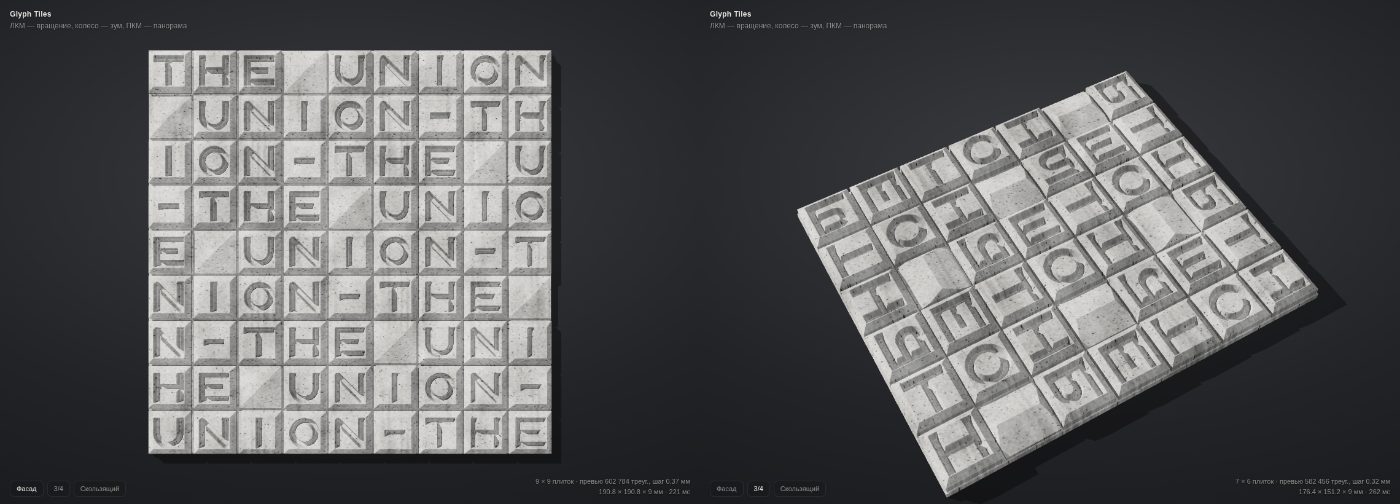
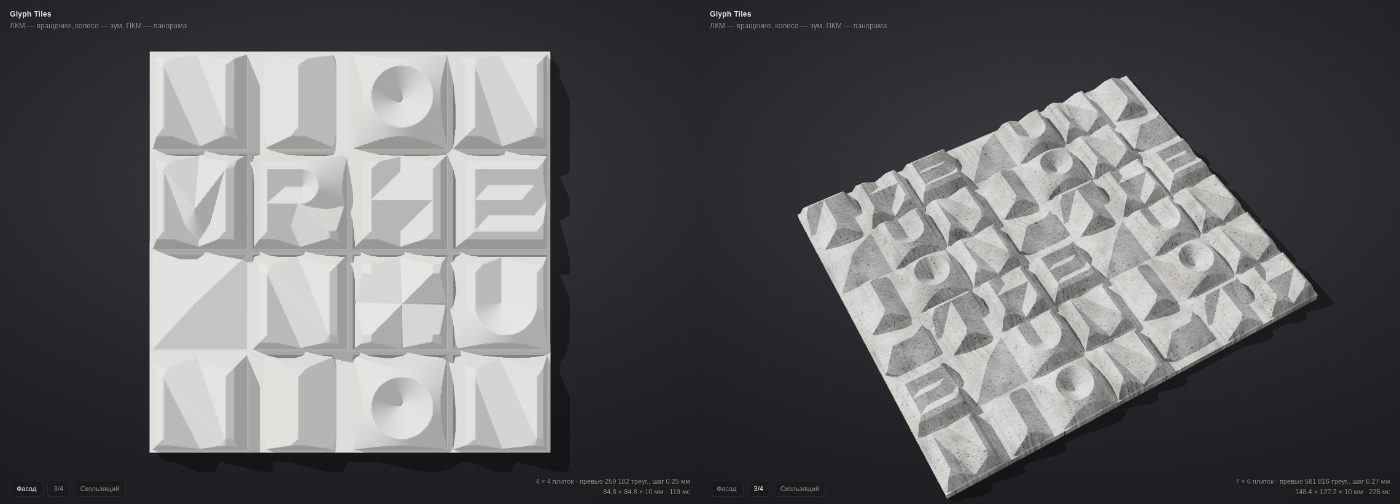
glyphs: letters as creases with slopes down to the base
Following the facade: a letter is not cut in or raised, it is the crease
itself. Every point of the tile falls from the letter's centre line to
the base at a set angle, so N gets triangular facets and valleys between
its three ridges, O a cone inside the ring, E louvres between the arms.
This "fold" build is the default; cut and raised strokes stay as options.

Font trimmed to Latin A-Z, digits and the dash; Cyrillic, punctuation
and the test suite removed as asked.

Claude-Session: https://claude.ai/code/session_01ABKi7uvLa2AT9wfuFbyTr3

diff --git a/glyphs/index.html b/glyphs/index.html
@@ -171,14 +171,14 @@
   <aside id="panel">
     <header class="head">
       <h1>Glyph Tiles</h1>
-      <p>Стена из бетонных плиток с вырезанными буквами. Текст идёт по сетке, каждая буква — своя плитка. Размеры в миллиметрах, экспорт в STL.</p>
+      <p>Стена из бетонных плиток-букв. Буква — излом-гребень на верху плитки, от него плоские скаты идут до основания; читается светотенью граней. Размеры в миллиметрах, экспорт в STL.</p>
     </header>
 
     <section class="group">
       <div class="gtitle">Текст</div>
       <div id="grp-text"></div>
       <div class="chips" id="presets"></div>
-      <p class="hint">Пробел — пустая плитка (форма ниже), <b>^</b> — пирамида, <b>~</b> — воронка. Латиница, кириллица, цифры и простые знаки.</p>
+      <p class="hint">Пробел — пустая плитка (форма ниже), <b>^</b> — пирамида, <b>~</b> — воронка. Латиница A–Z, цифры 0–9 и дефис.</p>
     </section>
 
     <section class="group">
@@ -301,51 +301,7 @@ var GlyphCore = (function () {
     8: 'a .5,.76 .24 0 360 | a .5,.26 .26 0 360',
     9: 'a .5,.7 .3 0 360 | .7598,.55 .4423,0',
 
-    'Б': '1,1 0,1 0,0 .55,0 | 0,.55 .55,.55 | a .55,.275 .275 -90 90',
-    'Г': '1,1 0,1 0,0',
-    'Д': '.12,.18 .25,1 .85,1 .85,.18 | 0,0 0,.18 1,.18 1,0',
-    'Ё': '1,.7 0,.7 0,0 1,0 | 0,.35 .75,.35 | p .3,1 | p .7,1',
-    'Ж': '.5,0 .5,1 | 0,1 .5,.5 1,1 | 0,0 .5,.5 1,0',
-    'И': '0,1 0,0 1,1 1,0',
-    'Й': '0,.72 0,0 1,.72 1,0 | .3,1 .7,1',
-    'Л': '0,0 .3,1 1,1 1,0',
-    'П': '0,0 0,1 1,1 1,0',
-    'У': '0,1 .52,.4 | 1,1 .2,0',
-    'Ф': 'a .5,.55 .38 0 360 | .5,0 .5,1',
-    'Ц': '0,1 0,.2 .8,.2 .8,1 | .8,.2 1,.2 1,0',
-    'Ч': '0,1 0,.55 1,.55 | 1,1 1,0',
-    'Ш': '0,1 0,0 1,0 1,1 | .5,1 .5,0',
-    'Щ': '0,1 0,.2 .8,.2 .8,1 | .4,1 .4,.2 | .8,.2 1,.2 1,0',
-    'Ъ': '0,1 .25,1 .25,0 .7,0 | .25,.55 .7,.55 | a .7,.275 .275 -90 90',
-    'Ы': '0,1 0,0 .45,0 | 0,.55 .45,.55 | a .45,.275 .275 -90 90 | 1,1 1,0',
-    'Ь': '.1,1 .1,0 .6,0 | .1,.55 .6,.55 | a .6,.275 .275 -90 90',
-    'Э': 'a .5,.5 .5 -140 140 | .4,.5 1,.5',
-    'Ю': '0,0 0,1 | 0,.5 .36,.5 | a .68,.5 .32 0 360',
-    'Я': '1,0 1,1 .45,1 | 1,.45 .45,.45 | a .45,.725 .275 90 270 | .5,.45 0,0',
-
     '-': '.2,.5 .8,.5',
-    '_': '0,0 1,0',
-    '.': 'p .5,.05',
-    ',': '.55,.2 .4,0',
-    ':': 'p .5,.2 | p .5,.8',
-    '!': '.5,1 .5,.35 | p .5,0',
-    '?': 'a .5,.72 .28 -60 165 | .64,.4775 .5,.38 | p .5,0',
-    "'": '.5,1 .5,.7',
-    '"': '.35,1 .35,.7 | .65,1 .65,.7',
-    '+': '.5,.15 .5,.85 | .15,.5 .85,.5',
-    '=': '.15,.35 .85,.35 | .15,.65 .85,.65',
-    '/': '.15,0 .85,1',
-    '*': '.5,.1 .5,.9 | .15,.3 .85,.7 | .15,.7 .85,.3',
-    '<': '.8,.9 .2,.5 .8,.1',
-    '>': '.2,.9 .8,.5 .2,.1',
-    '(': 'a .95,.5 .6 124 236',
-    ')': 'a .05,.5 .6 -56 56',
-    '#': '.35,0 .35,1 | .65,0 .65,1 | 0,.35 1,.35 | 0,.65 1,.65',
-  };
-  // Cyrillic letters that share a Latin (or digit) shape.
-  const ALIAS = {
-    'А': 'A', 'В': 'B', 'Е': 'E', 'З': '3', 'К': 'K', 'М': 'M', 'Н': 'H', 'О': 'O',
-    'Р': 'P', 'С': 'C', 'Т': 'T', 'Х': 'X',
   };
   // Characters that are not letters but whole-tile shapes.
   const SHAPE_CHARS = { ' ': null, '^': 'pyramid', '~': 'pit' };
@@ -418,7 +374,6 @@ var GlyphCore = (function () {
     for (const q of prims) {
       if (q.k === 's') { grow(q.ax, q.ay, 0); grow(q.bx, q.by, 0); }
       else if (q.k === 'p') grow(q.x, q.y, 0);
-      else if (q.full) grow(q.cx, q.cy, q.r);
       else for (let k = 0; k <= 64; k++) {
         const a = q.a0 + (q.span * k) / 64;
         grow(q.cx + q.r * Math.cos(a), q.cy + q.r * Math.sin(a), 0);
@@ -434,12 +389,12 @@ var GlyphCore = (function () {
   function glyphFor(ch) {
     const c = ch.toUpperCase();
     if (c in SHAPE_CHARS) return { shape: SHAPE_CHARS[c] };
-    const g = GLYPHS[c] || GLYPHS[ALIAS[c]];
+    const g = GLYPHS[c];
     return g ? { glyph: g } : { shape: null };
   }
   const supported = (ch) => {
     const c = ch.toUpperCase();
-    return c in SHAPE_CHARS || !!GLYPHS[c] || !!GLYPHS[ALIAS[c]];
+    return c in SHAPE_CHARS || !!GLYPHS[c];
   };
 
   // Distance from (x,y) to the glyph's cut centre line, unit-box units.
@@ -490,19 +445,21 @@ var GlyphCore = (function () {
     { id: 'gap', label: 'Шов', type: 'range', min: 0, max: 10, step: 0.1, value: 1.2, unit: 'мм' },
     { id: 'border', label: 'Поле по краю', type: 'range', min: 0, max: 40, step: 0.5, value: 0, unit: 'мм' },
     { id: 'base', label: 'Основание', type: 'range', min: 0.6, max: 30, step: 0.1, value: 3, unit: 'мм' },
-    { id: 'H', label: 'Высота плитки', type: 'range', min: 1, max: 60, step: 0.1, value: 6, unit: 'мм' },
-    { id: 'bevelW', label: 'Фаска: ширина', type: 'range', min: 0, max: 30, step: 0.1, value: 2.6, unit: 'мм' },
-    { id: 'bevelDrop', label: 'Фаска: глубина', type: 'range', min: 0, max: 60, step: 0.1, value: 2.4, unit: 'мм' },
+    { id: 'H', label: 'Высота плитки', type: 'range', min: 1, max: 60, step: 0.1, value: 7, unit: 'мм' },
+    { id: 'bevelW', label: 'Фаска: ширина', type: 'range', min: 0, max: 30, step: 0.1, value: 2.5, unit: 'мм' },
+    { id: 'bevelDrop', label: 'Фаска: глубина', type: 'range', min: 0, max: 60, step: 0.1, value: 7, unit: 'мм' },
     { id: 'jitter', label: 'Разброс выноса', type: 'range', min: 0, max: 20, step: 0.1, value: 0, unit: 'мм' },
     { id: 'seed', label: 'Сид', type: 'seed', min: 1, max: 99999, step: 1, value: 1971 },
   ];
   const GLYPH = [
-    { id: 'mode', label: 'Буква', type: 'select', value: 'carve', options: [['carve', 'Вырезана (углублена)'], ['emboss', 'Выпуклая']] },
-    { id: 'weight', label: 'Толщина штриха', type: 'range', min: 0.03, max: 0.35, step: 0.005, value: 0.16, unit: '×' },
-    { id: 'margin', label: 'Отступ от фаски', type: 'range', min: 0, max: 0.35, step: 0.005, value: 0.02, unit: '×' },
-    { id: 'depth', label: 'Глубина резьбы', type: 'range', min: 0.2, max: 40, step: 0.1, value: 3.5, unit: 'мм' },
-    { id: 'profile', label: 'Профиль реза', type: 'select', value: 'chisel', options: [['chisel', 'Долото (V / трапеция)'], ['round', 'Полукруглый']] },
-    { id: 'wall', label: 'Скос стенок', type: 'range', min: 0.05, max: 1, step: 0.01, value: 0.5, showIf: (v) => v.profile === 'chisel' },
+    { id: 'mode', label: 'Построение буквы', type: 'select', value: 'fold', options: [
+      ['fold', 'Излом: буква — гребень, скаты до основания'], ['carve', 'Штрих вырезан'], ['emboss', 'Штрих выпуклый']] },
+    { id: 'weight', showIf: (v) => v.mode !== 'fold', label: 'Толщина штриха', type: 'range', min: 0.03, max: 0.35, step: 0.005, value: 0.12, unit: '×' },
+    { id: 'margin', label: 'Отступ от фаски', type: 'range', min: 0, max: 0.35, step: 0.005, value: 0.08, unit: '×' },
+    { id: 'depth', label: 'Глубина реза', type: 'range', min: 0.2, max: 40, step: 0.1, value: 3.5, unit: 'мм', showIf: (v) => v.mode !== 'fold' },
+    { id: 'angle', label: 'Уклон скатов', type: 'range', min: 10, max: 80, step: 1, value: 42, unit: '°', showIf: (v) => v.mode === 'fold' },
+    { id: 'profile', label: 'Профиль', type: 'select', value: 'chisel', options: [['chisel', 'Плоские грани'], ['round', 'Вогнутый (чаша)']] },
+    { id: 'wall', label: 'Скос стенок', type: 'range', min: 0.05, max: 1, step: 0.01, value: 0.5, showIf: (v) => v.profile === 'chisel' && v.mode !== 'fold' },
     { id: 'ends', label: 'Концы штрихов', type: 'select', value: 'square', options: [['square', 'Прямые (гранёные)'], ['round', 'Круглые']] },
     { id: 'rot', label: 'Поворот плиток', type: 'select', value: 'none', options: [
       ['none', 'Нет'], ['flip', 'Случайно 0° / 180°'], ['rot', 'Случайно на 90°'], ['mirror', 'Случайное зеркало'], ['both', 'Поворот + зеркало']] },
@@ -510,7 +467,7 @@ var GlyphCore = (function () {
   const BLANK = [
     { id: 'blank', label: 'Форма пустой плитки', type: 'select', value: 'pyramid', options: [
       ['flat', 'Плоская'], ['pyramid', 'Пирамида'], ['pit', 'Воронка'], ['roof', 'Двускатная'], ['dome', 'Купол']] },
-    { id: 'pyr', label: 'Высота формы', type: 'range', min: 0.2, max: 60, step: 0.1, value: 4, unit: 'мм', showIf: (v) => v.blank !== 'flat' },
+    { id: 'pyr', label: 'Высота формы', type: 'range', min: 0.2, max: 60, step: 0.1, value: 7, unit: 'мм', showIf: (v) => v.blank !== 'flat' },
   ];
   const SCHEMA = { text: TEXT, grid: GRID, glyph: GLYPH, blank: BLANK };
   const ALL = [].concat(TEXT, GRID, GLYPH, BLANK);
@@ -527,7 +484,8 @@ var GlyphCore = (function () {
     const T = p.tile, gap = p.gap, pitch = T + gap, cols = p.cols | 0, rows = p.rows | 0;
     const bw = Math.min(p.bevelW, T * 0.45), drop = Math.min(p.bevelDrop, p.H);
     const face = T - 2 * bw;
-    const sw = Math.min(p.weight * T, face * 0.9);
+    const fold = p.mode === 'fold';
+    const sw = fold ? 0 : Math.min(p.weight * T, face * 0.9);
     const box = face * (1 - 2 * p.margin);
     const S = Math.max(box - sw, sw * 0.5, 0.05);           // glyph unit box -> mm
     const emboss = p.mode === 'emboss';
@@ -536,6 +494,7 @@ var GlyphCore = (function () {
     return {
       T, gap, pitch, cols, rows, bw, drop, sw, w: sw / 2, S, emboss,
       depth: p.depth, profile: p.profile, wall: p.wall, square: p.ends === 'square',
+      fold, slope: Math.tan(clamp(p.angle, 5, 89) * D2R),
       blank: p.blank, pyr: p.pyr, base: p.base, H: p.H, border: p.border, W, D, top0,
       top: top0 + (emboss ? p.depth : 0),
     };
@@ -614,6 +573,18 @@ var GlyphCore = (function () {
       return Math.max(P.base, z);
     }
     const g = t.glyph, S = P.S, gx = ux / S + 0.5, gy = uy / S + 0.5, wu = P.w / S, b = g.box;
+    if (P.fold) {
+      // The letter is a crease at the top of the tile; from every point of it a plane
+      // falls to the base. Where the falls from two strokes meet, a valley forms;
+      // where they meet the frame chamfer, the tile edge. Nothing is left flat.
+      const bx = Math.max(b[0] - gx, 0, gx - b[2]), by = Math.max(b[1] - gy, 0, gy - b[3]);
+      const run = P.H / P.slope;                               // horizontal length of a full fall
+      let d = Math.hypot(bx, by) * S;                          // lower bound of the distance to the letter
+      if (d < run) d = glyphDist(g, gx, gy, P.square) * S;
+      const k = Math.min(1, d / run);
+      const f = P.profile === 'round' ? Math.sqrt(1 - (1 - k) * (1 - k)) : k;
+      return Math.max(P.base, Math.min(z, top - P.H * f));
+    }
     if (gx < b[0] - wu || gx > b[2] + wu || gy < b[1] - wu || gy > b[3] + wu) return Math.max(P.base, z);
     const c = cutDepth(P, glyphDist(g, gx, gy, P.square) * S);
     if (c <= 0) return Math.max(P.base, z);
@@ -859,7 +830,7 @@ var GlyphCore = (function () {
   const SHAPE_NAMES = { flat: 'flat', pyramid: 'pyramid', pit: 'pit', roof: 'roof', dome: 'dome' };
   function tileFileName(t) {
     if (!t.glyph) return `blank-${SHAPE_NAMES[t.shape] || 'flat'}`;
-    const safe = /^[0-9A-ZА-ЯЁ]$/.test(t.ch) ? t.ch : 'u' + t.ch.codePointAt(0).toString(16).toUpperCase().padStart(4, '0');
+    const safe = /^[0-9A-Z]$/.test(t.ch) ? t.ch : 'u' + t.ch.codePointAt(0).toString(16).toUpperCase().padStart(4, '0');
     return `tile-${safe}${t.mir ? '-mirror' : ''}`;
   }
   // Assembly map: rows top to bottom, one cell per tile.
@@ -881,7 +852,7 @@ var GlyphCore = (function () {
   }
 
   return {
-    SCHEMA, ALL, FONT, ALIAS, GLYPHS, defaults, resolve, layout, glyphFor, supported, compileGlyph, glyphDist,
+    SCHEMA, ALL, FONT, GLYPHS, defaults, resolve, layout, glyphFor, supported, compileGlyph, glyphDist,
     tileZ, heightAt, tileAt, axis, panelAxes, sample, samplePanel, sampleTile, heightfieldMesh, meshTris,
     toSTL, crc32, zip, heightmapPNG, uniqueTiles, tileFileName, layoutText, hash3, vnoise, fbm,
   };
@@ -898,16 +869,14 @@ var GlyphCore = (function () {
 
   const PRESETS = [
     ['THE UNION', { text: 'THE UNION-', flow: 'shift', shift: 3, blank: 'pyramid' }],
-    ['БЕТОН', { text: 'БЕТОН ', flow: 'shift', shift: 2, blank: 'pyramid' }],
-    ['МИР ТРУД МАЙ', { text: 'МИР^ТРУД~МАЙ ', flow: 'rows', blank: 'dome' }],
+    ['CONCRETE 1971', { text: 'CONCRETE^1971~', flow: 'rows', blank: 'pyramid' }],
     ['A–Z', { text: 'ABCDEFGHIJKLMNOPQRSTUVWXYZ', flow: 'rows', blank: 'flat' }],
-    ['А–Я', { text: 'АБВГДЕЁЖЗИЙКЛМНОПРСТУФХЦЧШЩЪЫЬЭЮЯ', flow: 'rows', blank: 'flat' }],
     ['0–9', { text: '0123456789', flow: 'snake', blank: 'flat' }],
   ];
 
   const VIEW = [
     { id: 'az', label: 'Азимут света', type: 'range', min: 0, max: 360, step: 1, value: 135, unit: '°' },
-    { id: 'el', label: 'Высота света', type: 'range', min: 4, max: 90, step: 1, value: 38, unit: '°' },
+    { id: 'el', label: 'Высота света', type: 'range', min: 4, max: 90, step: 1, value: 40, unit: '°' },
     { id: 'material', label: 'Материал', type: 'select', value: 'concrete', options: [
       ['concrete', 'Бетон'], ['dark', 'Тёмный бетон'], ['white', 'Белый бетон'], ['print', 'Пластик (превью печати)']] },
     { id: 'texture', label: 'Фактура бетона', type: 'toggle', value: true, showIf: (v) => v.material !== 'print' },
@@ -1110,7 +1079,7 @@ var GlyphCore = (function () {
     tex.wrapS = tex.wrapT = THREE.RepeatWrapping;
     tex.encoding = THREE.sRGBEncoding;
     tex.anisotropy = renderer.capabilities.getMaxAnisotropy();
-    tex.repeat.set(1 / 70, 1 / 70);                          // UVs are in mm: one texture tile = 70 mm
+    tex.repeat.set(1 / 40, 1 / 40);                          // UVs are in mm: one texture tile = 40 mm
     return tex;
   }
   const concrete = makeConcreteTexture();

diff --git a/glyphs/README.md b/glyphs/README.md
@@ -1,7 +1,9 @@
 # Glyph Tiles
 
-Параметрический генератор стены из бетонных плиток с вырезанными буквами: текст идёт
-по сетке, каждая буква — отдельная плитка с фаской, штрихи вырезаны «долотом».
+Параметрический генератор стены из бетонных плиток-букв: текст идёт по сетке, каждая
+буква — отдельная плитка. Буква не вырезана и не выдавлена: она сама — **излом**, гребень
+на верху плитки, от которого плоские скаты идут до основания. Где скаты от двух штрихов
+встречаются, образуется впадина; буква читается светотенью граней.
 Один HTML-файл, всё считается в браузере. Размеры в миллиметрах, экспорт в **STL**.
 
 ![Фасад и вид 3/4](docs/preview.jpg)
@@ -21,11 +23,10 @@
 | --- | --- |
 | **Текст** | Строка и порядок раскладки: строками, змейкой, со сдвигом каждого ряда (как на фасаде «THE UNION»), столбцами, по диагоналям, случайно. Кнопки-пресеты. |
 | **Сетка и плитка** | Колонки и ряды, размер плитки, шов, поле по краю, толщина основания, высота плитки, ширина и глубина фаски, разброс выноса плиток, сид. |
-| **Буквы** | Вырезаны или выпуклые; толщина штриха и отступ (доли плитки); глубина; профиль реза — «долото» (V или трапеция, её задаёт скос стенок) или полукруглый; концы штрихов прямые или круглые; случайный поворот и зеркало плиток. |
+| **Буквы** | Построение: **излом** (по умолчанию — буква-гребень, скаты до основания, крутизна задаётся уклоном), или обычный вырезанный / выпуклый штрих (толщина, глубина, скос стенок). Отступ буквы от фаски; профиль — плоские грани или вогнутый (чаша); концы штрихов прямые (гранёные) или круглые; случайный поворот и зеркало плиток. |
 | **Пустые плитки** | Пробел и неизвестные символы: плоская, пирамида, воронка, двускатная или купол. В тексте `^` — всегда пирамида, `~` — всегда воронка. |
 
-Шрифт — собственный «скелетный»: латиница A–Z, кириллица А–Я и Ё, цифры и знаки
-`- _ . , : ! ? ' " + = / * < > ( ) #`. Регистр не важен. Символы, которых нет в шрифте,
+Шрифт — собственный «скелетный»: латиница A–Z, цифры 0–9 и дефис. Регистр не важен. Символы, которых нет в шрифте,
 становятся пустыми плитками, а их список показывается в левом верхнем углу.
 
 ## Экспорт
@@ -41,32 +42,18 @@
 
 ## Как устроено
 
-Каждая буква описана средней линией реза в единичном квадрате: ломаные, дуги окружностей
-и точки. Для точки поверхности считается расстояние до этой линии, а по нему — глубина реза:
-«долото» даёт V-канавку или трапецию с плоским дном, полукруглый профиль — желобок.
-У свободных концов штрихов и у прямых углов расстояние меряется «квадратом», а не кругом,
-поэтому концы получаются гранёными, а углы — со строгим усом. Концы, которые упираются
-в другой штрих, остаются круглыми и прячутся внутри него.
+Каждая буква описана своей средней линией в единичном квадрате: ломаные, дуги окружностей
+и точки. Для точки плитки считается расстояние до этой линии, и высота падает от верха
+плитки пропорционально ему (угол «Уклон скатов») до основания. Поэтому линия буквы —
+острый гребень, у N между тремя гребнями образуются треугольные грани и впадины, у O
+внутри кольца получается воронка, у E между перекладинами — «жалюзи». Фаска по краю
+плитки срезает скаты и даёт рамку. У свободных концов штрихов и у прямых углов расстояние
+меряется «квадратом», поэтому торцы гребней гранёные, как у вальмовой крыши.
 
 Поверхность — карта высот на прямоугольной сетке. К равномерному шагу добавляются точные
 линии рёбер плиток, фасок и вершин пирамид, поэтому швы вертикальные, а рёбра острые.
 В каждой ячейке высота считается ещё и в центре, и ячейка режется по той диагонали, которая
-лучше совпадает с ней: так диагональные грани букв и пирамид не «пилят».
+лучше совпадает с ней: так диагональные грани не «пилят».
 
 Геометрическое ядро лежит в `index.html` между маркерами `CORE:BEGIN` / `CORE:END` и
 не зависит ни от DOM, ни от Three.js.
-
-## Тесты
-
-```bash
-cd glyphs && npm test
-```
-
-Тесты проверяют:
-
-- каждый символ шрифта собирается, помещается в свою клетку и реально режет плитку;
-- концы штрихов: свободные и прямые углы — гранёные, упирающиеся в штрих — круглые;
-- порядок раскладки текста для всех режимов;
-- панель и каждая отдельная плитка — замкнутые сетки, ориентированные наружу, в своих габаритах;
-- линии сетки проходят точно по рёбрам плиток;
-- бинарный STL, ZIP (CRC, имена в UTF-8) и 16-битный PNG корректны.

diff --git a/README.md b/README.md
@@ -9,6 +9,6 @@
 | [`waves/`](waves/) | Интерференция круговых волн от нескольких источников (эффект муара). | Открыть `waves/index.html` в браузере |
 | [`tiles/`](tiles/) | Модульные настенные инсталляции из отдельных деталей: пирамиды, шипы, наклонные блоки, цилиндры, капли. Прямоугольная, радиальная и шестигранная сетка. Экспорт всей инсталляции, каждой детали или по столам принтера + схема сборки 1:1. | Открыть `tiles/index.html` в браузере |
 | [`brutalist/`](brutalist/) | Бруталистский бетонный рельеф с точными гранями: обломки, блоки, пирамиды, рёбра, складки. Экспорт: STL (монолит или точные тела) и 16-битная карта высот. | Открыть `brutalist/index.html` в браузере |
-| [`glyphs/`](glyphs/) | Стена из бетонных плиток с вырезанными буквами: текст раскладывается по сетке, буквы вырезаны «долотом», пустые плитки — пирамиды, купола и др. Экспорт: STL всей панели, ZIP с каждой уникальной плиткой и схемой раскладки, 16-битная карта высот. | Открыть `glyphs/index.html` в браузере |
+| [`glyphs/`](glyphs/) | Стена из бетонных плиток-букв: буква — излом-гребень, от которого скаты идут до основания. Текст (латиница, цифры) раскладывается по сетке, пустые плитки — пирамиды, купола и др. Экспорт: STL всей панели, ZIP с каждой уникальной плиткой и схемой раскладки, 16-битная карта высот. | Открыть `glyphs/index.html` в браузере |
 
 Подробности в README каждой папки.
